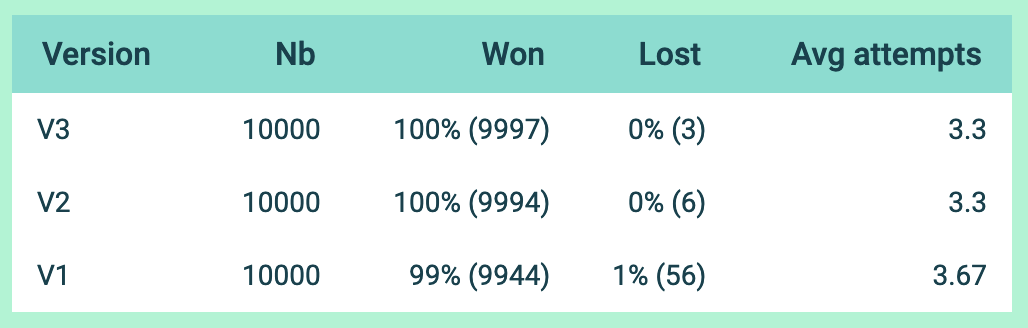
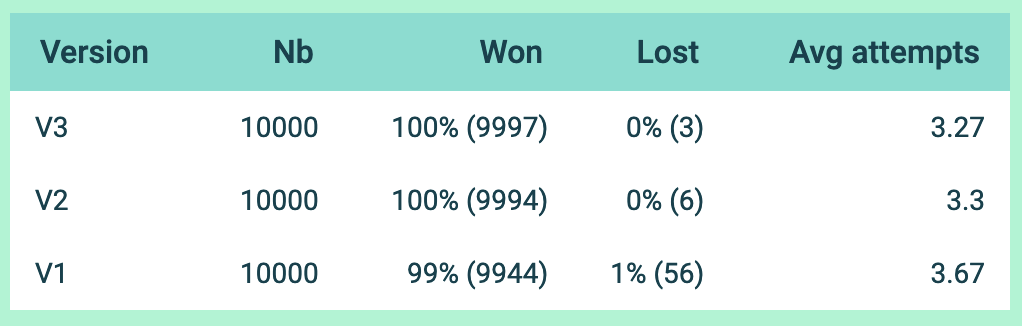
Update V3

diff --git a/js/bots/v3.js b/js/bots/v3.js
@@ -17,6 +17,7 @@ class SutomBotV3 extends SutomBotV2 {
     __getScore (word) {
         let score = 0;
         const wordChars = word.split('');
+        const removedVowels = [];
         for (let charIndex = 0; charIndex < wordChars.length; charIndex++) {
             if (!this.currentChars[charIndex]) {
                 let regex = this.__getScoreRegex(wordChars[charIndex], charIndex);
@@ -24,8 +25,9 @@ class SutomBotV3 extends SutomBotV2 {
                 this.wordScoreRegex[regex] = addedScore;
                 score += addedScore;
             }
-            if (this.attempts === 1 && ['A', 'E', 'I', 'O', 'U', 'Y'].includes(wordChars[charIndex])) {
+            if (this.attempts === 1 && ['A', 'E', 'I', 'O', 'U', 'Y'].includes(wordChars[charIndex]) && !removedVowels.includes(wordChars[charIndex])) {
                 score += 500;
+                removedVowels.push(wordChars[charIndex]);
             }
         }
         let possibleChars = [];

diff --git a/js/manager.js b/js/manager.js
@@ -48,7 +48,7 @@ class SutomManager {
         V1: 'V1',
         V2: 'V2',
         V3: 'V3',
-        V4: 'V4',
+        //V4: 'V4',
         LAST: 'V3'
     }
 

diff --git a/README.md b/README.md
@@ -37,8 +37,7 @@ Modeste solveur pour résoudre les défis journaliers de la plateforme https://s
 | :---: | :---: |
 | V1 | <p align="left">Version très basique.<br>Le bot filtre les mots via une regex en utilisant les lettres déclarées comme correctes ou non trouvées.<br>Il n'exploite pas vraiment les lettres jaunes (mal placées).<br>Il propose le premier mot de la liste ainsi filtrée.</p>  |
 | V2 | <p align="left">Version améliorée de <strong>V1</strong>.<br>Le bot filtre les mots via une regex en utilisant les lettres déclarées comme correctes ou non trouvées.<br><strong>Il exploite enfin les lettres jaunes (mal placées).<br>Il propose le mot de la liste filtrée ayant le meilleur score.<br>Le score est calculé par:<br>- le nombre de lettres en commun avec les autres mots possibles.<br>- le nombre de lettre jaunes (mal placées) contenus dans le mot.</strong></p>  |
-| V3 |  <p align="left">Version améliorée de <strong>V2</strong>.<br>Le bot filtre les mots via une regex en utilisant les lettres déclarées comme correctes ou non trouvées.<br>Il exploite les lettres jaunes (mal placées).<br>Il propose le mot de la liste filtrée ayant le meilleur score.<br>Le score est calculé par:<br>- le nombre de lettres en commun avec les autres mots possibles.<br>- le nombre de lettre jaunes (mal placées) contenus dans le mot.<br><strong>À la première tentative, il augmente le score des mots contenant le plus de voyelles.</strong></p>  |
-| V4 | <p align="left">Version actuellement très stupide et en cours de développement.<br>À utiliser à vos risques et périls !</p> |
+| V3 |  <p align="left">Version améliorée de <strong>V2</strong>.<br>Le bot filtre les mots via une regex en utilisant les lettres déclarées comme correctes ou non trouvées.<br>Il exploite les lettres jaunes (mal placées).<br>Il propose le mot de la liste filtrée ayant le meilleur score.<br>Le score est calculé par:<br>- le nombre de lettres en commun avec les autres mots possibles.<br>- le nombre de lettre jaunes (mal placées) contenus dans le mot.<br><strong>À la première tentative, il augmente le score des mots contenant le plus de voyelles différentes.</strong></p>  |
 
 ---
 
